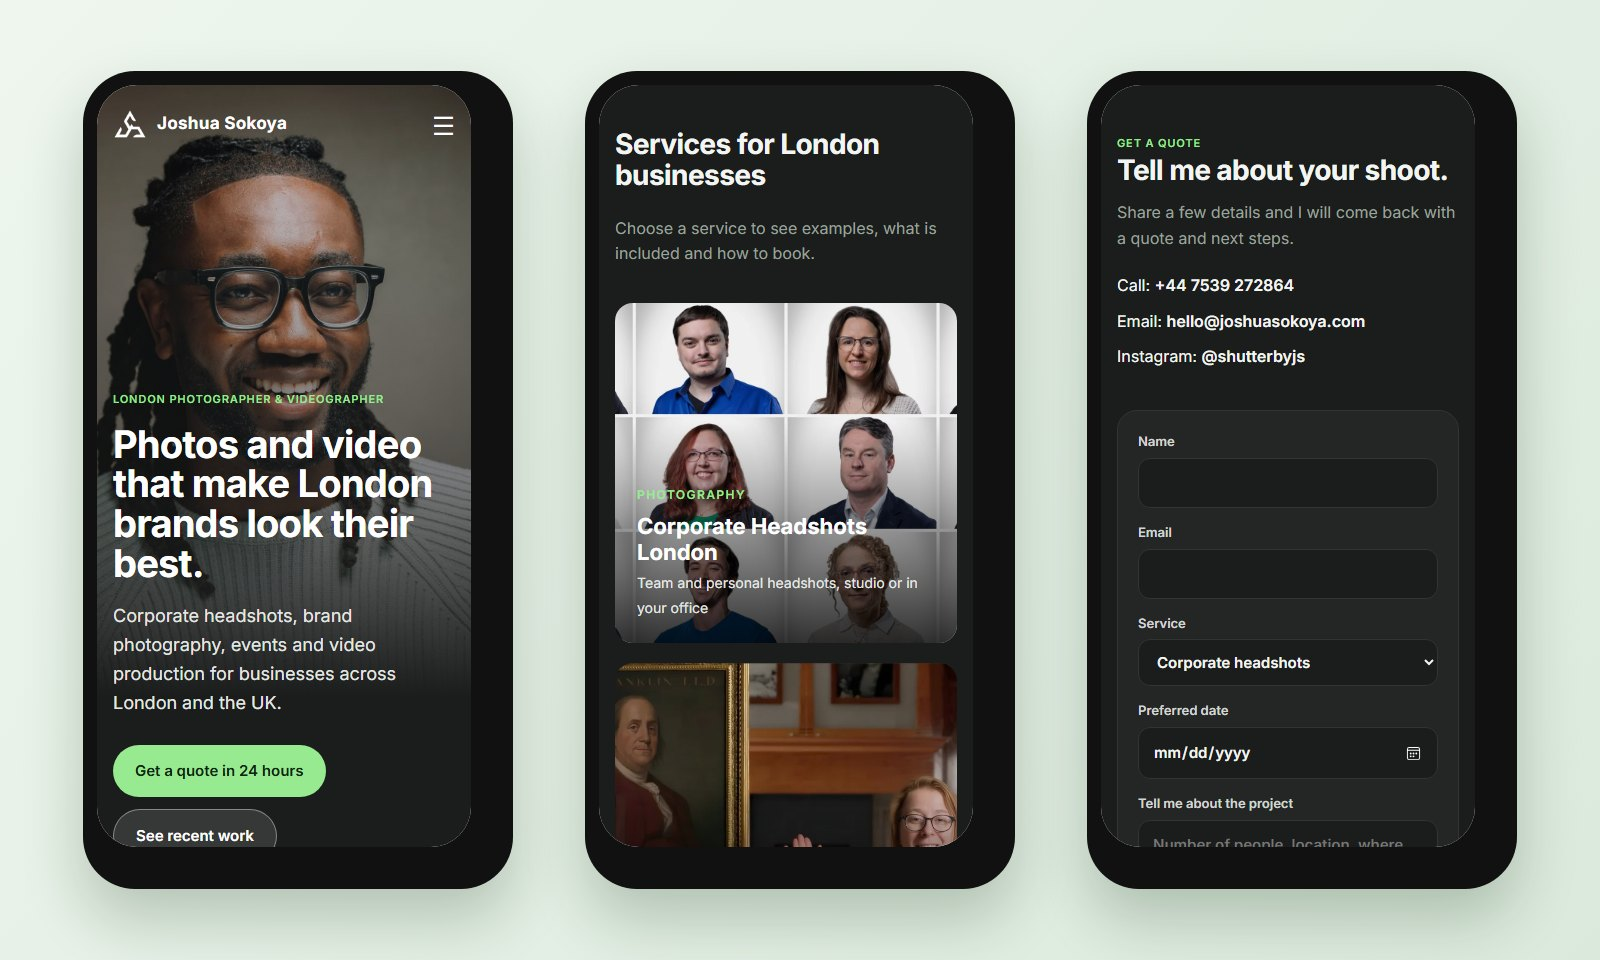
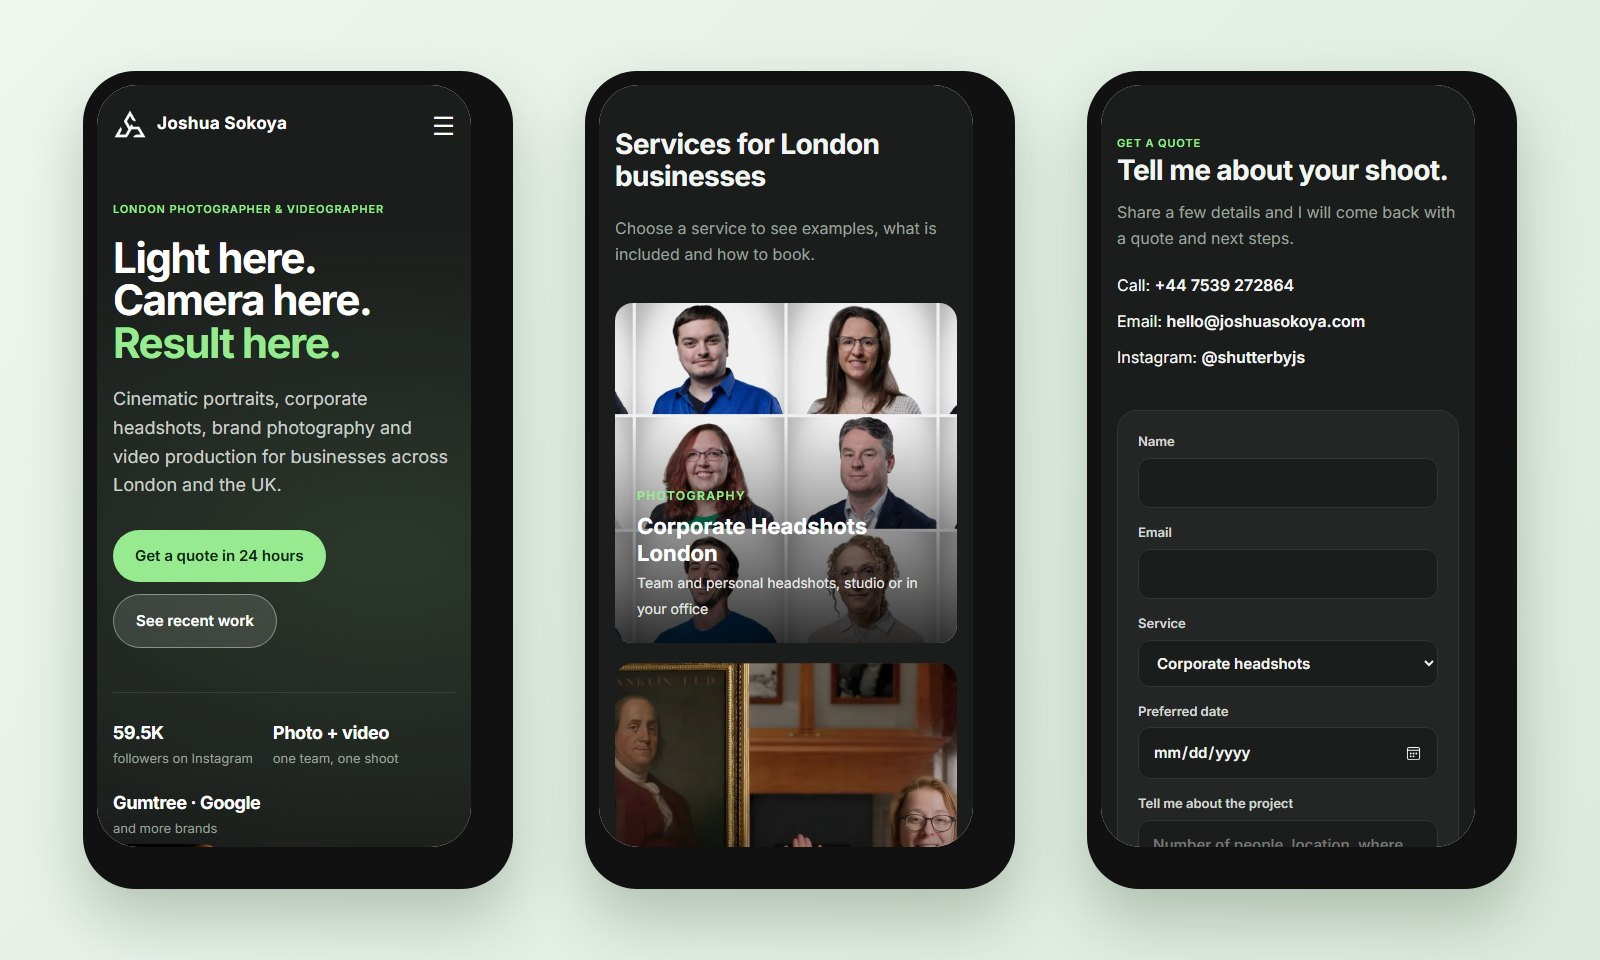
cv: phone layout fixes, 'Website Design Concepts I Created' and 'Sample Instagram Feed Concept I Created' titles; Joshua concept IG collage hero

diff --git a/concepts/joshua-sokoya/index.html b/concepts/joshua-sokoya/index.html
@@ -42,7 +42,7 @@ body.clean .cbar,body.clean .note{display:none!important}
 .note .n{flex:none;width:28px;height:28px;border-radius:50%;background:var(--note);color:var(--accent-ink);font-weight:700;display:grid;place-items:center;font-size:14px}
 .note b{display:block;color:var(--accent)}
 body.hide-notes .note{display:none}
-.hero .note{position:absolute;right:24px;bottom:24px;max-width:340px;margin:0;z-index:3;background:rgba(19,21,20,.9)}
+.hero .note{position:absolute;left:50%;transform:translateX(-50%);bottom:18px;max-width:640px;width:calc(100% - 48px);margin:0;z-index:3;background:rgba(19,21,20,.92)}
 
 /* nav */
 header.nav{position:absolute;top:0;left:0;right:0;z-index:5}
@@ -57,17 +57,26 @@ header.nav{position:absolute;top:0;left:0;right:0;z-index:5}
 .burger{display:none;background:none;border:0;color:#fff;font-size:26px;cursor:pointer}
 
 /* hero */
-.hero{position:relative;min-height:clamp(620px,88vh,860px);display:flex;align-items:center;color:#fff;overflow:hidden}
-.hero{background:var(--paper)}
-.hero > img{position:absolute;top:0;right:0;bottom:0;left:auto;width:56%;height:100%;object-fit:cover;object-position:center 22%}
-.hero::after{content:"";position:absolute;inset:0;background:linear-gradient(90deg,#1b1d1c 0%,#1b1d1c 44%,rgba(27,29,28,.35) 62%,rgba(27,29,28,0) 80%)}
-.hero > .wrap{position:relative;z-index:2;padding-top:110px;padding-bottom:80px;width:100%}
+.hero{position:relative;color:#fff;overflow:hidden;background:radial-gradient(900px 520px at 78% 40%,rgba(151,234,144,.13),transparent 65%),radial-gradient(700px 500px at 0% 100%,rgba(151,234,144,.06),transparent 60%),var(--paper)}
+.hero > .wrap{position:relative;z-index:2;padding-top:130px;padding-bottom:90px;display:grid;grid-template-columns:1fr 1.05fr;gap:56px;align-items:center}
 .eyebrow{display:inline-block;font-size:13px;letter-spacing:.14em;text-transform:uppercase;font-weight:600;color:var(--accent)}
-.hero h1{font-size:clamp(38px,5.6vw,68px);line-height:1.05;font-weight:700;max-width:720px;margin:14px 0 18px;letter-spacing:-.02em}
-.hero p.lead{font-size:18px;max-width:540px;color:#e4e8e5}
-.hero .ctas{display:flex;gap:12px;margin-top:28px;flex-wrap:wrap}
-.trustbar{display:flex;gap:26px;margin-top:40px;flex-wrap:wrap;font-size:14px;color:#cfd4d0}
-.trustbar b{color:#fff;font-size:15px}
+.hero h1{font-size:clamp(42px,5.4vw,74px);line-height:1.02;font-weight:700;margin:16px 0 20px;letter-spacing:-.035em}
+.hero h1 em{font-style:normal;color:var(--accent)}
+.hero p.lead{font-size:18px;max-width:500px;color:#c9cfcb}
+.hero .ctas{display:flex;gap:12px;margin-top:30px;flex-wrap:wrap}
+.trustbar{display:flex;gap:30px;margin-top:44px;padding-top:26px;border-top:1px solid rgba(255,255,255,.1);flex-wrap:wrap;font-size:13px;color:#9ba19d}
+.trustbar b{display:block;color:#fff;font-size:22px;letter-spacing:-.02em}
+.collage{position:relative;display:grid;grid-template-columns:repeat(3,1fr);gap:14px;height:600px}
+.collage .col{display:flex;flex-direction:column;gap:14px}
+.collage .col:nth-child(2){transform:translateY(-34px)}
+.collage .col:nth-child(3){transform:translateY(26px)}
+.collage figure{position:relative;border-radius:22px;overflow:hidden;flex:1;background:#111;box-shadow:0 24px 50px rgba(0,0,0,.45)}
+.collage figure.tall{flex:1.5}
+.collage img{width:100%;height:100%;object-fit:cover}
+.collage figcaption{position:absolute;left:12px;bottom:12px;font-size:12px;font-weight:600;background:rgba(19,21,20,.72);backdrop-filter:blur(8px);border:1px solid rgba(255,255,255,.12);padding:6px 10px;border-radius:999px}
+.igbadge{position:absolute;right:-6px;top:30px;z-index:3;display:flex;align-items:center;gap:10px;background:rgba(19,21,20,.82);backdrop-filter:blur(10px);border:1px solid rgba(151,234,144,.35);padding:10px 14px;border-radius:16px;font-size:13px;color:#c9cfcb}
+.igbadge b{color:#fff;font-size:17px;display:block;line-height:1.1}
+.igbadge i{width:34px;height:34px;border-radius:10px;background:var(--accent);color:var(--accent-ink);display:grid;place-items:center;font-style:normal;font-weight:700}
 
 /* logos */
 .clients{background:var(--deep);border-bottom:1px solid var(--line)}
@@ -167,11 +176,10 @@ footer a{text-decoration:none}
   .work figure:first-child{grid-row:auto;grid-column:1/-1}
   .work figure:first-child img{height:320px}
   .quote,.sp-hero{grid-template-columns:1fr}
-  .hero{flex-direction:column;align-items:stretch}
-  .hero > img{width:100%;height:62%;object-position:center 20%}
-  .hero::after{background:linear-gradient(180deg,rgba(27,29,28,.15) 0%,rgba(27,29,28,.55) 40%,#1b1d1c 62%)}
-  .hero > .wrap{padding-top:300px!important}
-  .hero .note{position:relative;right:auto;bottom:auto;max-width:none;margin:0 16px 28px}
+  .hero > .wrap{grid-template-columns:1fr;gap:40px;padding-bottom:40px}
+  .collage{height:420px;order:-1;margin-top:10px}
+  .igbadge{right:8px;top:-18px}
+  .hero .note{position:relative;left:auto;transform:none;bottom:auto;max-width:none;width:auto;margin:0 16px 28px}
   .sticky{display:flex}
 }
 @media (max-width:600px){
@@ -181,8 +189,9 @@ footer a{text-decoration:none}
   form.card{grid-template-columns:1fr;padding:20px}
   .sp-hero .txt{padding:26px 20px}
   .seo{padding:0 20px 26px}
-  .hero{min-height:auto}
-  .hero > .wrap{padding-top:130px;padding-bottom:50px}
+  .hero > .wrap{padding-top:110px}
+  .collage{height:340px;gap:10px}.collage .col{gap:10px}.collage figure{border-radius:16px}
+  .trustbar{gap:20px}.trustbar b{font-size:18px}
   .logos{gap:22px 30px}.logos img{height:26px}
   .eyebrow{font-size:11px;letter-spacing:.08em;white-space:normal}
 }
@@ -196,7 +205,6 @@ footer a{text-decoration:none}
 </div></div>
 
 <section class="hero">
-  <img src="https://joshuasokoya.com/wp-content/uploads/2025/09/IMG_9985-scaled.jpg" alt="Joshua Sokoya, London photographer and videographer">
   <header class="nav"><div class="wrap">
     <a class="logo" href="#top"><img src="https://joshuasokoya.com/wp-content/uploads/2025/10/White-JS-TS.png" alt="Joshua Sokoya logo"><span>Joshua Sokoya</span></a>
     <button class="burger" type="button" aria-label="Open menu" id="burger">&#9776;</button>
@@ -209,17 +217,34 @@ footer a{text-decoration:none}
     </nav>
   </div></header>
   <div class="wrap">
-    <span class="eyebrow">London photographer &amp; videographer</span>
-    <h1>Photos and video that make London brands look their best.</h1>
-    <p class="lead">Corporate headshots, brand photography, events and video production for businesses across London and the UK.</p>
-    <div class="ctas">
-      <a class="btn btn-gold" href="#quote">Get a quote in 24 hours</a>
-      <a class="btn btn-ghost" href="#work">See recent work</a>
+    <div>
+      <span class="eyebrow">London photographer &amp; videographer</span>
+      <h1>Light here. Camera here. <em>Result here.</em></h1>
+      <p class="lead">Cinematic portraits, corporate headshots, brand photography and video production for businesses across London and the UK.</p>
+      <div class="ctas">
+        <a class="btn btn-gold" href="#quote">Get a quote in 24 hours</a>
+        <a class="btn btn-ghost" href="#work">See recent work</a>
+      </div>
+      <div class="trustbar">
+        <span><b>59.5K</b>followers on Instagram</span>
+        <span><b>Photo + video</b>one team, one shoot</span>
+        <span><b>Gumtree · Google</b>and more brands</span>
+      </div>
     </div>
-    <div class="trustbar">
-      <span><b>Gumtree · Google · Callaway</b><br>trusted by brands like</span>
-      <span><b>Photo + video</b><br>one team, one shoot</span>
-      <span><b>London &amp; UK</b><br>studio or on location</span>
+    <div class="collage" aria-label="Recent work by Joshua Sokoya">
+      <a class="igbadge" href="https://www.instagram.com/shutterbyjs" target="_blank" rel="noopener"><i>IG</i><span><b>@shutterbyjs</b>59.5K followers</span></a>
+      <div class="col">
+        <figure class="tall"><img src="img/ig7.jpg" alt="Cinematic warm-light portrait by Joshua Sokoya"></figure>
+        <figure><img src="img/ig9.jpg" alt="Creative paper-cut portrait by Joshua Sokoya"></figure>
+      </div>
+      <div class="col">
+        <figure class="tall"><img src="https://joshuasokoya.com/wp-content/uploads/2025/09/IMG_9985-scaled.jpg" alt="Joshua Sokoya, London photographer and videographer"><figcaption>Joshua Sokoya</figcaption></figure>
+        <figure><img src="img/ig1.jpg" alt="Silhouette portrait with rim light by Joshua Sokoya"></figure>
+      </div>
+      <div class="col">
+        <figure><img src="img/ig3.jpg" alt="Studio portrait by Joshua Sokoya"></figure>
+        <figure class="tall"><img src="img/ig10.jpg" alt="Low-key profile portrait by Joshua Sokoya"></figure>
+      </div>
     </div>
   </div>
   <div class="note"><span class="n">1</span><span><b>Proposed improvement 1: One clean brand</b>"JS Store Here" removed from the logo and page titles. Same name, same menu and same links on every page.</span></div>
@@ -249,7 +274,7 @@ footer a{text-decoration:none}
     <a class="svc" href="#service-page"><img src="https://joshuasokoya.com/wp-content/uploads/2025/10/E0A0536-1120x747.jpg" alt="Anneka Rice bus campaign photography"><div><small>Photography</small><h3>Brand &amp; Campaign Photography</h3><span>Images for ads, websites and social media</span></div></a>
     <a class="svc" href="#service-page"><img src="https://joshuasokoya.com/wp-content/uploads/2025/08/4-1120x747.jpg" alt="Tripleseat x Gaucho testimonial video shoot"><div><small>Videography</small><h3>Testimonial Videos</h3><span>Your clients telling your story</span></div></a>
     <a class="svc" href="#service-page"><img src="https://joshuasokoya.com/wp-content/uploads/2025/09/E0A6421-scaled-e1757268322274.jpg" alt="Event photography in London"><div><small>Photo &amp; video</small><h3>Event Photography London</h3><span>Launches, conferences and private events</span></div></a>
-    <a class="svc" href="#service-page"><img src="https://joshuasokoya.com/wp-content/uploads/2025/09/IMG_1095-scaled.jpg" alt="Photography workshop and education"><div><small>Education</small><h3>Photography Workshops</h3><span>Learn to shoot with confidence</span></div></a>
+    <a class="svc" href="#service-page"><img src="img/ig2.jpg" alt="Building the Shot cinematic lighting workshop with Nanlite" style="object-position:center 30%"><div><small>Education</small><h3>Lighting Workshops</h3><span>Hands-on cinematic lighting, like Building the Shot x Nanlite</span></div></a>
   </div>
 </div></section>
 

diff --git a/cv/index.html b/cv/index.html
@@ -281,12 +281,14 @@ h2.title{margin:8px 0 6px;font-size:clamp(26px,3.6vw,38px);line-height:1.15;lett
 .wlink{align-self:flex-start;margin-top:auto;display:inline-flex;align-items:center;gap:8px;padding:10px 20px;color:#fff;background:var(--primary);border:0;border-radius:999px;font-weight:600;font-size:.9rem;box-shadow:0 8px 20px rgba(11,110,127,.25);transition:background .25s,transform .25s var(--ease)}
 .wlink:hover{background:var(--primary-dark);transform:translateY(-2px)}
 .rd-sub{margin:34px 0 14px;font-size:clamp(20px,2.4vw,26px);letter-spacing:-.01em}
-.rd-shots{display:grid;grid-template-columns:1fr 1fr;gap:22px}
+.rd-shots{display:grid;grid-template-columns:repeat(2,minmax(0,1fr));gap:22px}
+.rd-shot,.rd-col{min-width:0}
+html,body{overflow-x:clip}
 .rd-shot{display:block;text-decoration:none;color:inherit}
 .rd-shot .rd-browser img{display:block;width:100%;height:auto}
 .rd-pimg{display:block;width:100%;height:auto;border-radius:16px;border:1px solid var(--line);box-shadow:var(--shadow)}
 .rd-cap{display:block;margin-top:8px;font-size:13.5px;font-weight:600;color:var(--muted)}
-@media (max-width:760px){.rd-shots{grid-template-columns:1fr}}
+@media (max-width:760px){.rd-shots{grid-template-columns:minmax(0,1fr)}}
 .rd-grid{display:grid;grid-template-columns:minmax(0,1fr) 407px;gap:34px;align-items:start}
 .rd-tag{display:inline-block;margin:0 0 10px;font-size:12px;font-weight:700;letter-spacing:.12em;text-transform:uppercase;color:var(--primary)}
 .rd-hint{display:inline-flex;align-items:center;gap:8px;margin:0 0 22px;padding:9px 16px;background:var(--gold-bg);border:1px solid rgba(255,194,61,.7);color:var(--gold-ink);border-radius:999px;font-weight:600;font-size:14px}
@@ -299,7 +301,8 @@ h2.title{margin:8px 0 6px;font-size:clamp(26px,3.6vw,38px);line-height:1.15;lett
 .rd-screen{border-radius:34px;overflow:hidden;background:#fff;height:min(78vh,740px)}
 .rd-screen iframe{width:100%;height:100%;border:0;display:block}
 .rd-open{margin-top:22px}
-@media (max-width:960px){.rd-grid{grid-template-columns:1fr}.rd-phonecol{text-align:center}}
+@media (max-width:960px){.rd-grid{grid-template-columns:minmax(0,1fr)}.rd-phonecol{text-align:center}}
+@media (max-width:480px){.rd-phone{border-radius:38px;padding:10px}.rd-screen{border-radius:28px;height:min(72vh,640px)}}
 .site-modal{position:fixed;z-index:110;inset:0;display:grid;padding:6vh 5vw;visibility:hidden;place-items:center;background:rgba(9,24,34,0);opacity:0;transition:opacity .35s,background .35s,visibility .35s}
 .site-modal.open{visibility:visible;background:rgba(9,24,34,.55);backdrop-filter:blur(2px);opacity:1}
 .site-window{display:flex;flex-direction:column;width:min(100%,1200px);height:100%;overflow:hidden;background:#fff;border-radius:18px;box-shadow:0 30px 90px rgba(0,0,0,.4);transform:translateY(14px) scale(.98);transition:transform .4s var(--ease)}
@@ -674,8 +677,8 @@ footer{background:#031f26;color:rgba(255,255,255,.6);font-size:13px;padding:18px
 </div>
 <div class="toast" id="toast" role="status"></div>
 
-<script src="data.js?v=20261112zm"></script>
-<script src="jobs.js?v=20261112zm"></script>
+<script src="data.js?v=20261112zn"></script>
+<script src="jobs.js?v=20261112zn"></script>
 <script>
 (function(){
 if(window.__RESUME_OFF) return;
@@ -940,7 +943,7 @@ function stacked(k){
   const head = J.workHeads && J.workHeads[k] ? "" : `<h2 class="title wsub">${esc(w.label)}</h2><p class="blurb">${esc(w.blurb)}</p>`;
   return `${head}
     <div class="feeds${w.cols === 2 ? " feeds-2" : ""}">${w.items.map((it, n) => `<div class="feed-card" style="--accent:${it.accent};--tint:${it.tint}">
-      <div class="feed-top"><div class="feed-title"><span class="feed-num" aria-hidden="true">${String(n + 1).padStart(2, "0")}</span><div><h4>${/ig-feed-/.test(it.src) ? `<span class="sample-tag">SAMPLE CONCEPT I DESIGNED:</span> ${esc(it.title.replace(/\s+Based in .*$/, ""))}` : esc(it.title)}</h4><p>${esc(it.note)}</p></div></div>
+      <div class="feed-top"><div class="feed-title"><span class="feed-num" aria-hidden="true">${String(n + 1).padStart(2, "0")}</span><div><h4>${/ig-feed-/.test(it.src) ? `<span class="sample-tag">Sample Instagram Feed Concept I Created:</span> ${esc(it.title.replace(/\s+Based in .*$/, ""))}` : esc(it.title)}</h4><p>${esc(it.note)}</p></div></div>
         <div class="feed-chips">${(it.chips || ["9-post grid", "5-colour palette", "Phone preview"]).map(c => `<span>${esc(c)}</span>`).join("")}</div></div>
       <button class="feed-media${it.phone ? " has-split" : ""}${it.scroll ? " has-scroll" : ""}" type="button" data-lb="${k}" data-i="${n}" aria-label="View ${esc(it.title)}"><img src="${IMG + it.src}" alt="${esc(it.title)}" loading="lazy" decoding="async"></button>
       ${it.phone ? `<div class="feed-split"><img class="fs-phone" src="${IMG + it.phone}" alt="${esc(it.title)}: Instagram profile on a phone" loading="lazy" decoding="async"><img class="fs-grid" src="${IMG + it.grid}" alt="${esc(it.title)}: nine-post Instagram grid" loading="lazy" decoding="async"></div>` : ""}
@@ -992,7 +995,7 @@ const WB = {
   crm: n => loopBlock("crm", "CRM screenshot"),
   smm: n => loopBlock("smm", "Content planning screenshot"),
   admin: n => loopBlock("admin", "Admin screenshot"),
-  websites: n => B.webProjects ? `<h2 class="title wsub">Website designs I create</h2><p class="blurb">${J.webProjectsHide && J.webProjectsHide.includes("Landscaping Services in Australia") ? "Website design concepts" : "Real client website and design concepts"}. Tap a picture to enlarge it, or open the site in a pop-up without leaving this page.</p>${webCards()}` : loopBlock("websites", "Website screenshot")
+  websites: n => B.webProjects ? `<h2 class="title wsub">Website Design Concepts I Created</h2><p class="blurb">${J.webProjectsHide && J.webProjectsHide.includes("Landscaping Services in Australia") ? "Website design concepts" : "Real client website and design concepts"}. Tap a picture to enlarge it, or open the site in a pop-up without leaving this page.</p>${webCards()}` : loopBlock("websites", "Website screenshot")
 };
 
 S.experience = () => {
